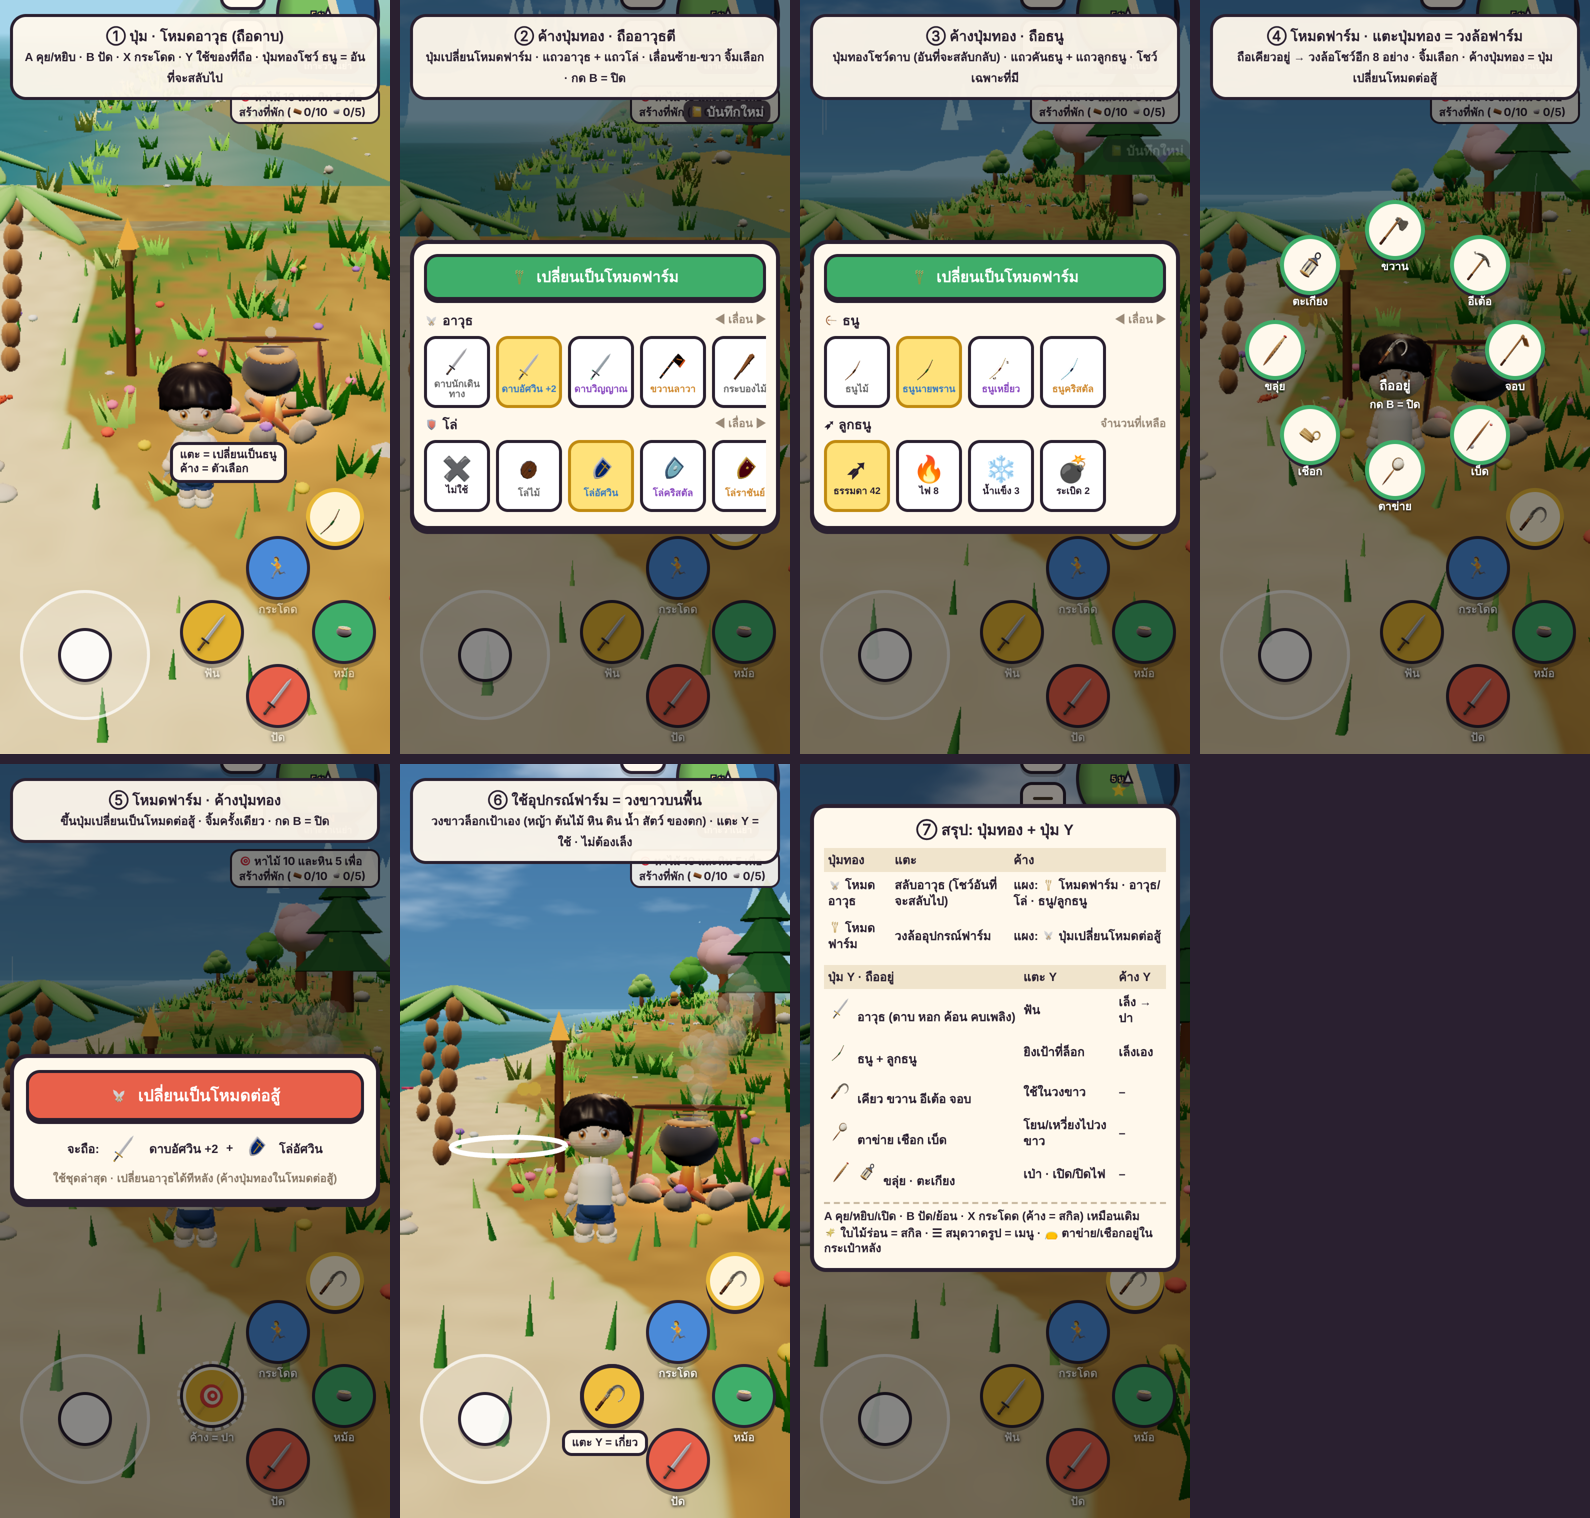
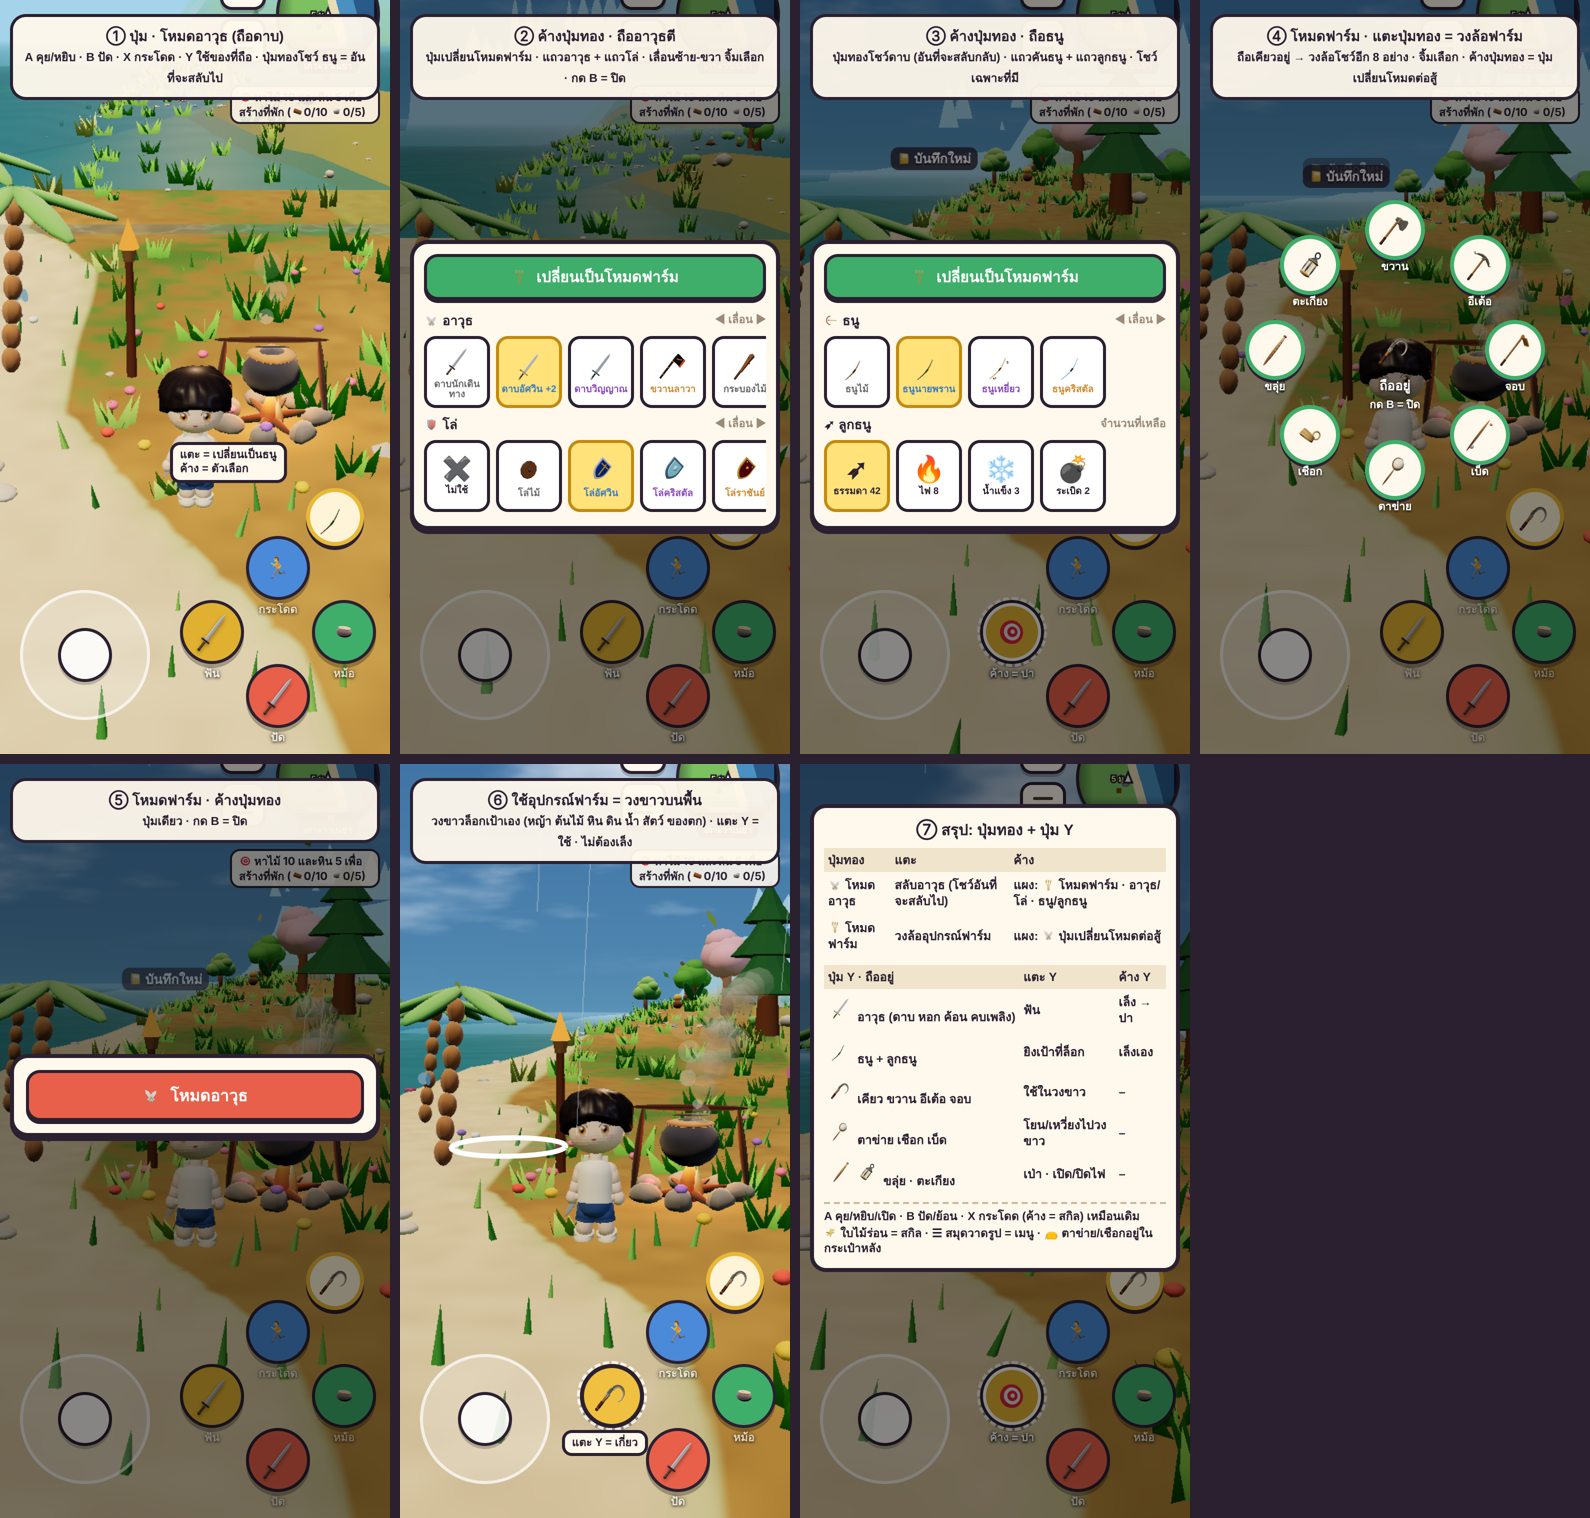
docs(newgame): farm-mode hold panel = one button 'weapon mode', no extra text · backup kept
Claude-Session: https://claude.ai/code/session_01GPWeNez232vT9ersFNk7wt

diff --git a/newgame/docs/backup/plan-buttons-20261124-13.md b/newgame/docs/backup/plan-buttons-20261124-13.md
@@ -1,0 +1,43 @@
+# แผนปรับปุ่ม + อุปกรณ์ (ตกลงกับผู้ออกแบบ · 24 พ.ย. 2026) — ยังไม่ได้ทำ
+
+> ไฟล์นี้คือ **ข้อตกลงล่าสุด** · ของเดิมก่อนแก้อยู่ `docs/backup/plan-buttons-*.md` · สถานะปุ่มตอนนี้ดู `docs/CONTROLS.md`
+> ภาพสรุปล่าสุด (7 ช่อง · 24 พ.ย.): `docs/art/buttons-plan-summary.png` · ภาพเก่า: `docs/art/buttons-wheel-summary.png` · `ytools-ground-circle-mock.png` · `ytools-palm-mock.png` · `rod-hold-mock.png` · `sickle-hold-mock.png` · `hip-pouch-back-mock.png`
+
+## ตกลงแล้ว (ข้อ 5–7 ยังเป็นข้อเสนอ · ดูด้านล่าง)
+1. **A B X ไม่เปลี่ยน** (A = คำสั่งตามสิ่งตรงหน้า · B = ปัด/ย้อน · X = กระโดด/สกิล)
+2. **Y = ใช้ของที่ถือ** ทุกอย่างปุ่มเดียว
+   | ถืออยู่ | แตะ Y | ค้าง Y |
+   |---|---|---|
+   | อาวุธถือ | ฟัน | เล็ง → ปา (เหมือนเดิม) |
+   | ธนู | ยิงเป้าที่ล็อก | เล็งเอง (เหมือนเดิม) |
+   | ขวาน · เคียว · อีเต้อ · จอบ · เบ็ด · ตาข่าย · เชือก | ใช้กับเป้าใน **วงขาวบนพื้น** (ล็อกเอง · ไม่มี FPS) | – |
+3. **อุปกรณ์ฟาร์ม (ขวาน เคียว อีเต้อ จอบ เบ็ด ตาข่าย เชือก + ขลุ่ย) ใช้วิธีเดียวกันหมด** (ขลุ่ย: แตะ Y = เปิดโหมดเป่าเหมือนเดิม · ตะเกียง: แตะ Y = เปิด/ปิดไฟ · สองอย่างนี้ไม่มีวงขาว) (ไม่แบ่งกลุ่ม · ไม่มีเลือกอัตโนมัติ) · ระยะ: ขวาน/เคียว/อีเต้อ/จอบ ~2 ม. · เบ็ด 8 · ตาข่าย 10 · เชือก 15
+4. **ค้อน = อาวุธ** (ผู้ออกแบบ: ค้อนน่าจะเป็นอาวุธ) · ค้อนไม้/ค้อนเหล็ก → อาวุธมือเดียว ⚔ 7/15 เท่าเดิม · ร้าน/คราฟ/ดรอปเหมือนเดิม · ทุบหินใช้อีเต้ออย่างเดียว
+5. **ปุ่มทองปุ่มเดียว** แทน `#bGear` `#bSwap` `#bFarm`: แตะ = สลับกับของก่อนหน้าในกลุ่มเดียวกัน (อาวุธ ↔ อาวุธ · ฟาร์ม ↔ ฟาร์ม) · ค้าง = **วงล้อ 8 ช่อง** (เปิดค้าง · จิ้มเลือก · **ปิดด้วย B อย่างเดียว** · เกมหยุดชั่วคราว)
+5b. **ปุ่มทอง แบบล่าสุด (ผู้ออกแบบ 24 พ.ย.)** — แทนข้อ 5:
+   | โหมดตอนนี้ | แตะ | ค้าง |
+   |---|---|---|
+   | ⚔ อาวุธ | สลับไปอาวุธอีกอัน · ปุ่มโชว์ไอคอน **อันที่จะสลับไป** (ถือดาบ → โชว์ธนู) | **แผงตัวเลือก** (ดูด้านล่าง) |
+   | 🌾 ฟาร์ม | วงล้ออุปกรณ์ฟาร์ม (อาวุธเลือกไม่ได้) | **แผงปุ่มเดียว: ⚔ เปลี่ยนเป็นโหมดต่อสู้** (บอกว่าจะถืออะไร · ชุดล่าสุด) · ค่อยเลือกอาวุธทีหลัง |
+   - วงล้อฟาร์มโชว์อุปกรณ์ฟาร์มที่มี **ยกเว้นอันที่ถืออยู่** (มีครบ 9 = วง 8 ช่อง · อันที่ถืออยู่โชว์กลางวง) · ไม่ต้องจัดช่อง
+   - **ค้างในโหมดอาวุธ = แผงตัวเลือก** (ผู้ออกแบบ 24 พ.ย.):
+     1. ปุ่ม 🌾 เปลี่ยนเป็นโหมดฟาร์ม
+     2. ถืออาวุธตี: แถวอาวุธ + แถวโล่ (เลื่อนซ้าย-ขวา · จิ้มเลือก)
+     3. ถือธนู: แถวคันธนู + แถวลูกธนู (เลื่อนซ้าย-ขวา · จิ้มเลือก) · **ลูกธนูโชว์เฉพาะชนิดที่มี** (ไม่โชว์ 0)
+     - ภาพตัวอย่าง: `docs/art/weapon-hold-panel-mock.png`
+   - ค้างในโหมดฟาร์ม = แผงมีปุ่ม ⚔ เปลี่ยนเป็นโหมดต่อสู้ (ผู้ออกแบบ 24 พ.ย. · เดิม = เปลี่ยนทันที) · บอกว่าจะถือชุดไหน
+   - **ปิดวงล้อ/แผง: กด B อย่างเดียว** (ไม่มีปุ่ม ✕ · จิ้มที่ว่างไม่ปิด) (ผู้ออกแบบ 24 พ.ย.)
+6. **8 ช่องหลัก** ผู้เล่นจัดเองในกระเป๋า (อาวุธหรืออุปกรณ์ฟาร์มก็ได้) · โล่ใช้คู่อาวุธมือเดียวอัตโนมัติ · ลูกธนูเปลี่ยนในกระเป๋า
+7. **ปุ่มที่ใช้ไม่ได้ตอนนั้น = จาง** (ในเมือง ขี่น้อง ว่ายน้ำ) ตำแหน่งไม่เปลี่ยน
+8. **ภาพ**: ตาข่ายในมือ = ลูกกลมเล็ก (ในฝ่ามือ) · เชือก = วงเล็กวงเดียว · โยนตาข่าย = กางกลางอากาศครอบสัตว์ · เชือก = พุ่งเป็นเส้น · **กระเป๋าหนังใบเล็กที่เข็มขัดด้านหลัง** (ไม่มีของโผล่) · ถือเฉพาะตอนใช้ (เหมือนดาบ) · ปุ่มโชว์ **รูปอุปกรณ์ดินปั้นจริง** ไม่ใช่ emoji
+9. เบ็ดเก็บหายเมื่อไม่ใช้ (ไม่เสียบหลัง)
+
+## ยังต้องตัดสินใจ (ผู้ออกแบบกำลังคิด · อย่าเริ่มทำ)
+- ✅ แยกประเภทครบแล้ว (24 พ.ย. · รายละเอียด `docs/EQUIPMENT.md`):
+  - ⚔ อาวุธ: อาวุธประชิด · ค้อน · 🔥 คบเพลิง
+  - 🏹 ธนู + ลูกธนู
+  - 🌾 อุปกรณ์ฟาร์ม: ขวาน เคียว อีเต้อ จอบ เบ็ด ตาข่าย เชือก ขลุ่ย 🏮 ตะเกียง
+  - ✨ สกิล: 🍃 ใบไม้ร่อน
+  - ☰ เมนู: 🖍 สมุดวาดรูป
+- **ระบบปุ่มใหม่ทั้งหมด (ข้อ 5–7) ยังไม่ตัดสินใจ** · แบ่งปล่อยเป็นรอบหรือไม่ ยังไม่ตัดสิน
+- (ข้อเสนอเดิม: รอบ 1 = ปุ่มทอง + วงล้อ + ปุ่มจาง · รอบ 2 = Y วงขาว + โมเดลตาข่าย/เชือก/กระเป๋า + ค้อน + ไอคอนดินปั้น)

diff --git a/newgame/docs/plan-buttons.md b/newgame/docs/plan-buttons.md
@@ -18,14 +18,14 @@
    | โหมดตอนนี้ | แตะ | ค้าง |
    |---|---|---|
    | ⚔ อาวุธ | สลับไปอาวุธอีกอัน · ปุ่มโชว์ไอคอน **อันที่จะสลับไป** (ถือดาบ → โชว์ธนู) | **แผงตัวเลือก** (ดูด้านล่าง) |
-   | 🌾 ฟาร์ม | วงล้ออุปกรณ์ฟาร์ม (อาวุธเลือกไม่ได้) | **แผงปุ่มเดียว: ⚔ เปลี่ยนเป็นโหมดต่อสู้** (บอกว่าจะถืออะไร · ชุดล่าสุด) · ค่อยเลือกอาวุธทีหลัง |
+   | 🌾 ฟาร์ม | วงล้ออุปกรณ์ฟาร์ม (อาวุธเลือกไม่ได้) | **แผงปุ่มเดียว: ⚔ โหมดอาวุธ** (ไม่มีคำอธิบาย · ใช้ชุดล่าสุด) · ค่อยเลือกอาวุธทีหลัง |
    - วงล้อฟาร์มโชว์อุปกรณ์ฟาร์มที่มี **ยกเว้นอันที่ถืออยู่** (มีครบ 9 = วง 8 ช่อง · อันที่ถืออยู่โชว์กลางวง) · ไม่ต้องจัดช่อง
    - **ค้างในโหมดอาวุธ = แผงตัวเลือก** (ผู้ออกแบบ 24 พ.ย.):
      1. ปุ่ม 🌾 เปลี่ยนเป็นโหมดฟาร์ม
      2. ถืออาวุธตี: แถวอาวุธ + แถวโล่ (เลื่อนซ้าย-ขวา · จิ้มเลือก)
      3. ถือธนู: แถวคันธนู + แถวลูกธนู (เลื่อนซ้าย-ขวา · จิ้มเลือก) · **ลูกธนูโชว์เฉพาะชนิดที่มี** (ไม่โชว์ 0)
      - ภาพตัวอย่าง: `docs/art/weapon-hold-panel-mock.png`
-   - ค้างในโหมดฟาร์ม = แผงมีปุ่ม ⚔ เปลี่ยนเป็นโหมดต่อสู้ (ผู้ออกแบบ 24 พ.ย. · เดิม = เปลี่ยนทันที) · บอกว่าจะถือชุดไหน
+   - ค้างในโหมดฟาร์ม = แผงมีปุ่มเดียว "⚔ โหมดอาวุธ" (ผู้ออกแบบ: ไม่ต้องอธิบายเยอะ)
    - **ปิดวงล้อ/แผง: กด B อย่างเดียว** (ไม่มีปุ่ม ✕ · จิ้มที่ว่างไม่ปิด) (ผู้ออกแบบ 24 พ.ย.)
 6. **8 ช่องหลัก** ผู้เล่นจัดเองในกระเป๋า (อาวุธหรืออุปกรณ์ฟาร์มก็ได้) · โล่ใช้คู่อาวุธมือเดียวอัตโนมัติ · ลูกธนูเปลี่ยนในกระเป๋า
 7. **ปุ่มที่ใช้ไม่ได้ตอนนั้น = จาง** (ในเมือง ขี่น้อง ว่ายน้ำ) ตำแหน่งไม่เปลี่ยน
